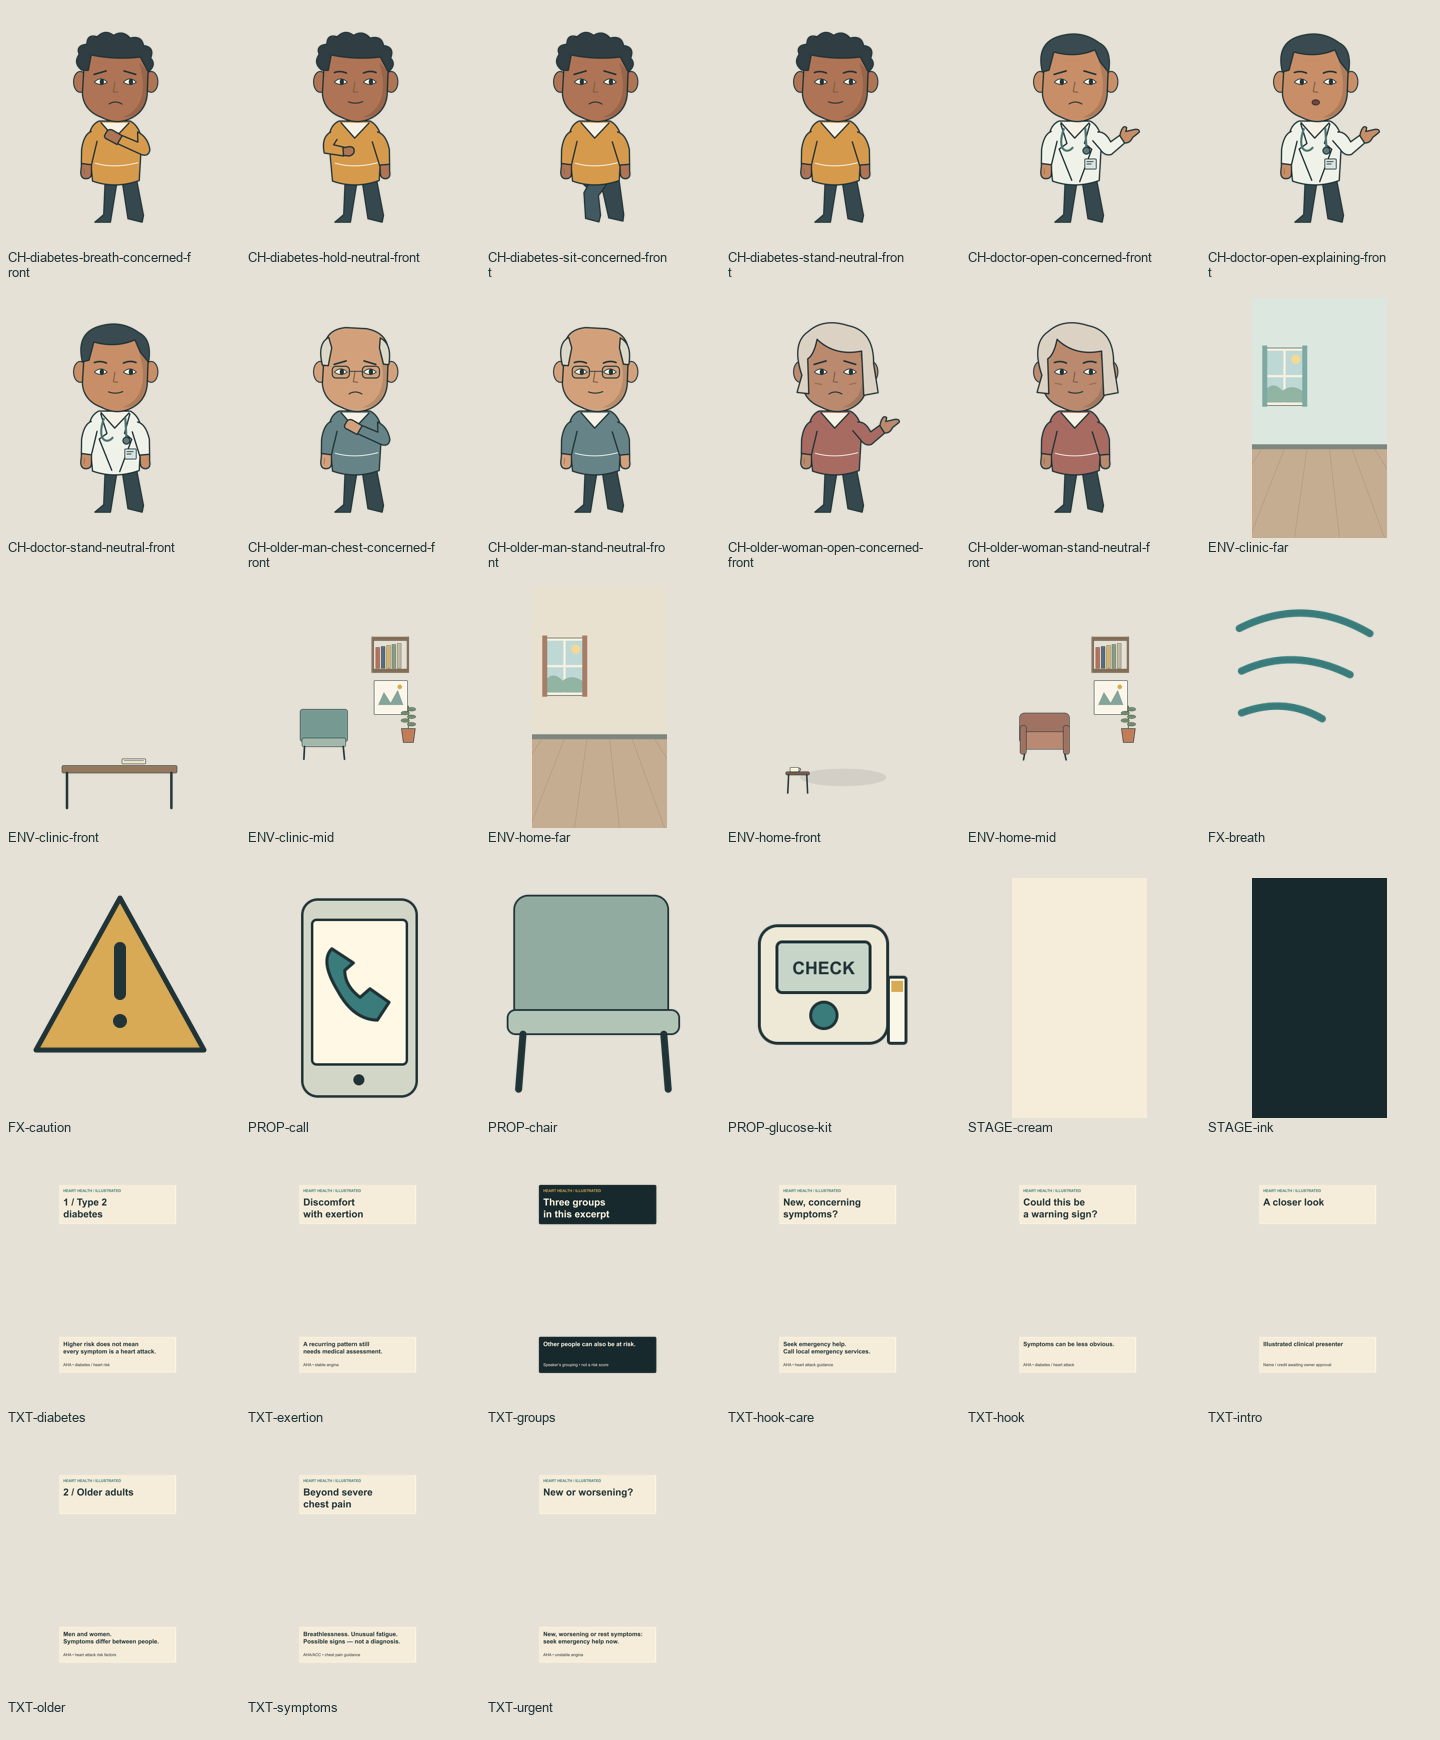
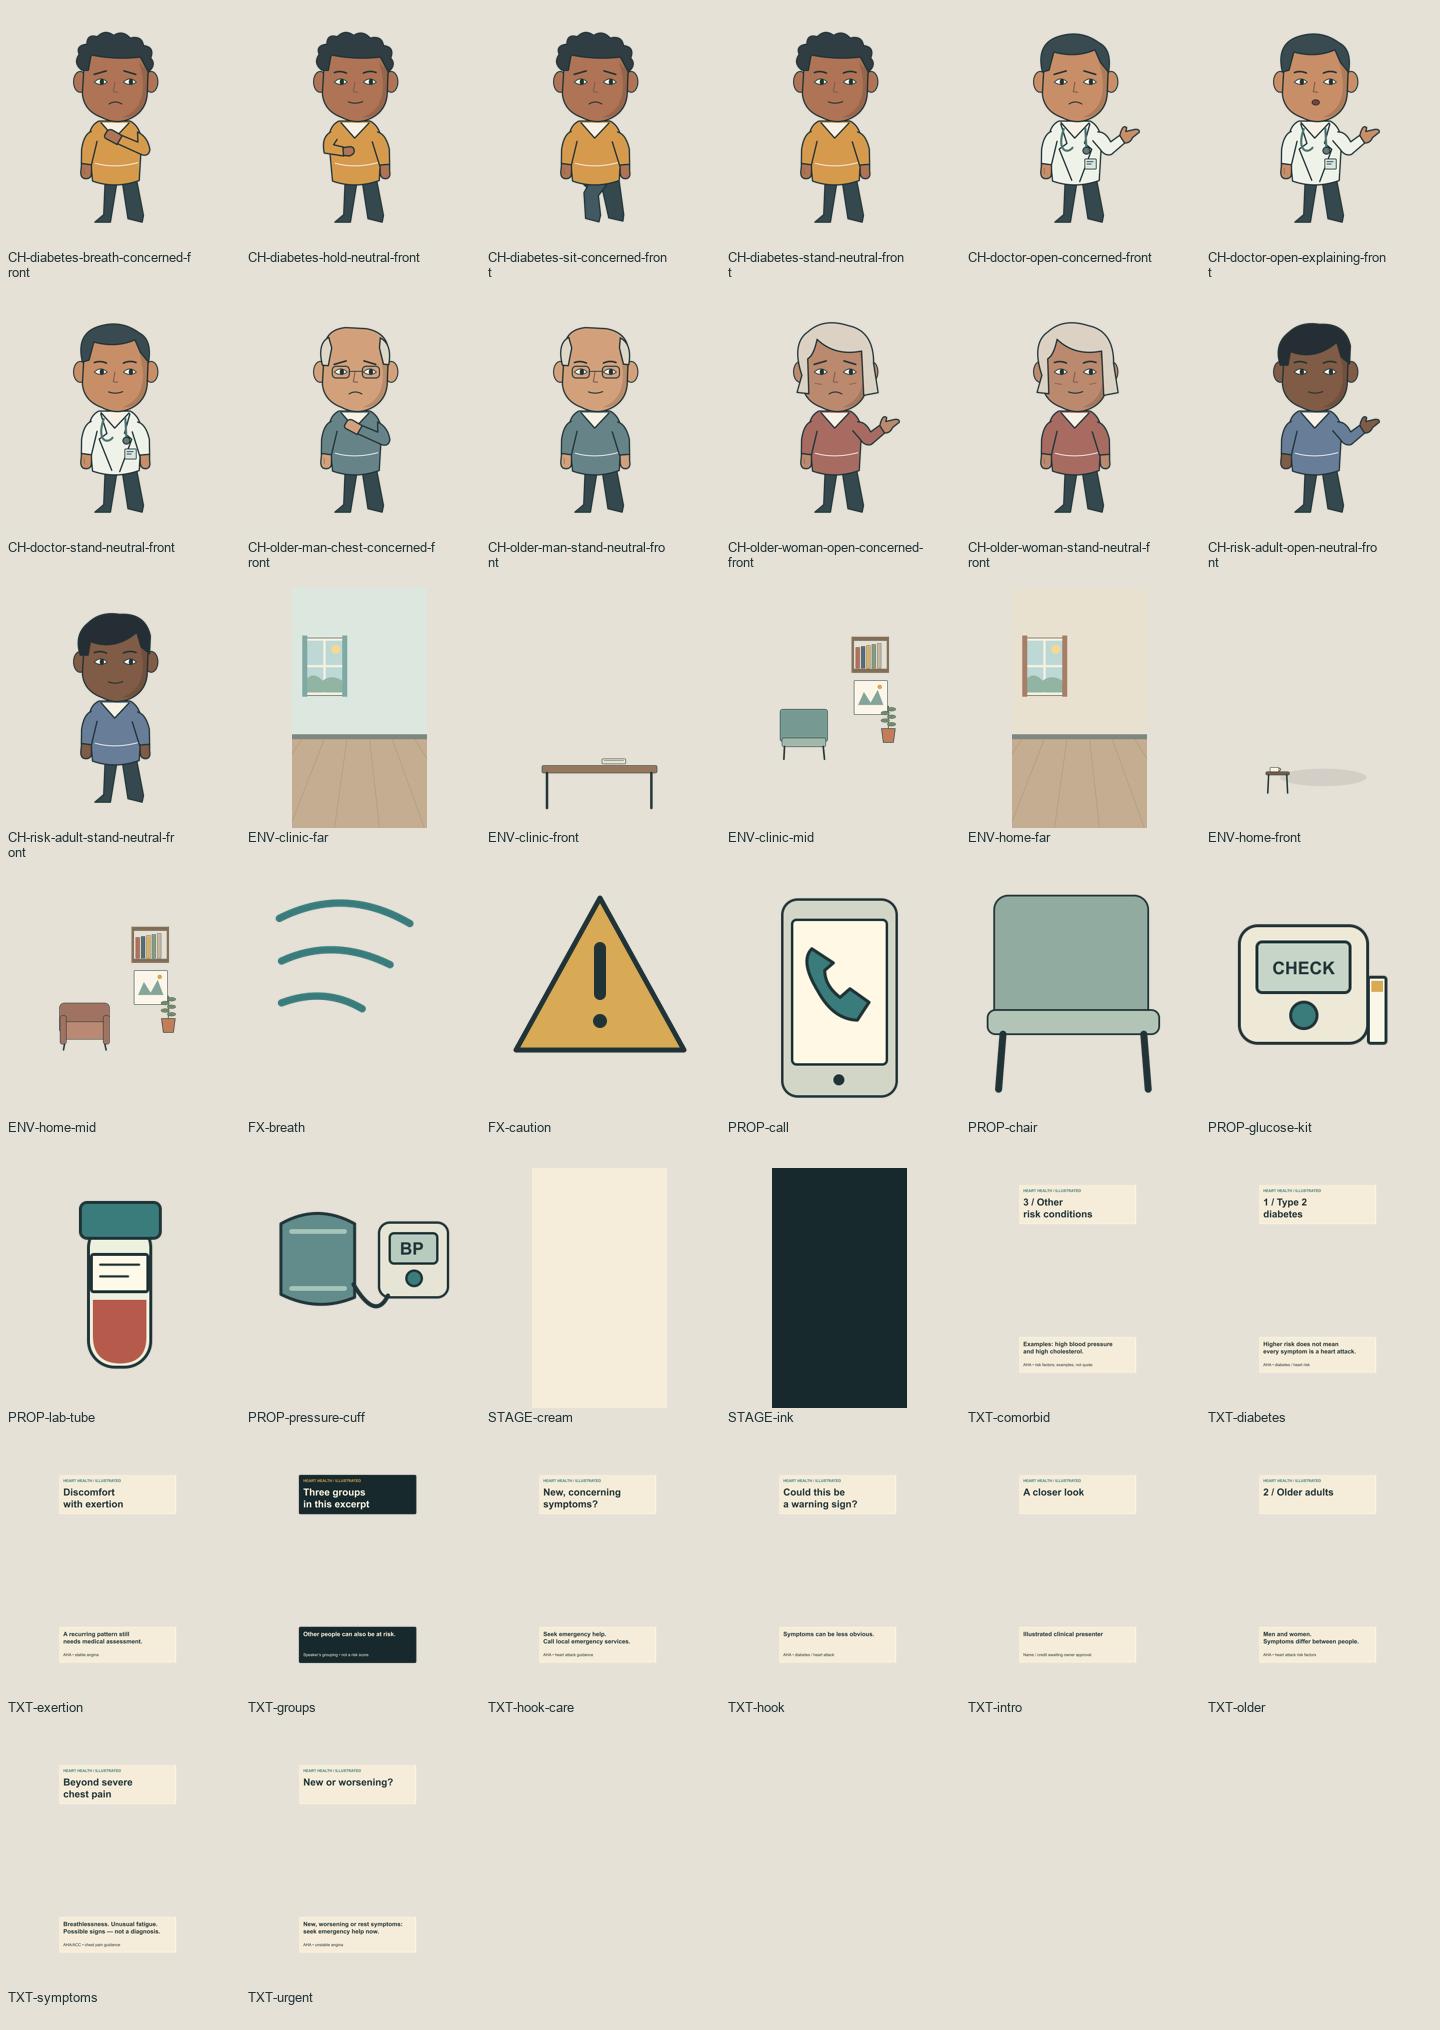
production: add comorbidity context with original clinical props

diff --git a/productions/dr-rehan-diabetes-heart-warning-01/tools/build_assets.py b/productions/dr-rehan-diabetes-heart-warning-01/tools/build_assets.py
@@ -151,8 +151,8 @@ state('S04-A','S04',[inst('STAGE-ink')],L04a,'they should always be evaluated in
 state('S04-B','S04',[inst('STAGE-cream'),inst(P2,150,500,.92),inst('PROP-glucose-kit',381,891,.60,'POP_IN')],L04,'number 1 type 2 diabetes,','Diabetes context; no fabricated glucose reading.','CE03','M01;M08',4)
 state('S05-A','S05',[inst('STAGE-cream'),inst(M0,100,540,.8,'SLIDE_IN')],L05,'number 2 elderly males and elderly females','Older man introduced; no universal symptom depiction.','CE03','M04;M08',3)
 state('S05-B','S05',[inst('STAGE-cream'),inst(M0,100,540,.8),inst(W0,510,540,.8,'SLIDE_IN')],L05,'number 2 elderly males and elderly females','Older woman joins on same plate.','CE03','M04;M08',4)
-state('S06-A','S06',env('clinic')+[inst(R0,100,550,.8),inst('PROP-pressure-cuff',570,850,.8,'POP_IN')],L06,'and number 3 with patients with comorbid conditions.','First supported example; not an assigned diagnosis.','CE03','M04;M08',4)
-state('S06-B','S06',env('clinic')+[inst(R1,100,550,.8,'POSE_SWITCH'),inst('PROP-pressure-cuff',550,700,.65),inst('PROP-lab-tube',650,950,.6,'POP_IN')],L06,'and number 3 with patients with comorbid conditions.','Add cholesterol lab-context symbol without a result.','CE03','M04;M08',4)
+state('S06-A','S06',[inst('STAGE-cream')]+[inst(R0,100,550,.8),inst('PROP-pressure-cuff',570,850,.8,'POP_IN')],L06,'and number 3 with patients with comorbid conditions.','First supported example; not an assigned diagnosis.','CE03','M04;M08',4)
+state('S06-B','S06',[inst('STAGE-cream')]+[inst(R1,100,550,.8,'POSE_SWITCH'),inst('PROP-pressure-cuff',550,700,.65),inst('PROP-lab-tube',650,950,.6,'POP_IN')],L06,'and number 3 with patients with comorbid conditions.','Add cholesterol lab-context symbol without a result.','CE03','M04;M08',4)
 state('S07-A','S07',[inst('STAGE-white'),inst('MED-heart-anterior',275,535,1.02),inst('MED-coronary-overlay',275,535,1.02,'DIAGRAM_BUILD')],L07,'So these 3 groups of people should always be evaluated for acute chronic syndrome','Schematic mechanism; quoted terminology unresolved.','CE05','M06',5)
 state('S07-B','S07',[inst('STAGE-white'),inst('MED-artery-wall',100,700,1),inst('MED-plaque',100,700,1,'DIAGRAM_BUILD'),inst('MED-flow',100,700,1,'DIAGRAM_BUILD')],L07b,'So these 3 groups of people should always be evaluated for acute chronic syndrome','Cut to generic artery segment; no diagnosed blockage.','CE05','M06',5)
 state('S07-C','S07',env('clinic')+[inst(D2,45,560,.72,'POSE_SWITCH'),inst(P0,535,560,.72),inst('PROP-assessment',355,995,.55),inst('ENV-clinic-front')],L07c,'if they have sudden onset symptoms which I have just mentioned.','Assessment concept; not advice to book a routine visit for acute signs.','CE02','M07',4)

diff --git a/productions/dr-rehan-diabetes-heart-warning-01/ASSET_QA.md b/productions/dr-rehan-diabetes-heart-warning-01/ASSET_QA.md
@@ -9,3 +9,4 @@ Automated check: tools/validate.py checks existence, dimensions, alpha, source h
 - S03: A/B/C phone review. Added a seat after detecting an unsupported sitting pose; hip now meets chair seat and feet align near chair feet. Reused identity/palette. Exertional explanation is text-led (no walking test illustrated). M02/M03/M05 distinguish possible symptoms from diagnosis and stable-pattern assessment from new/worsening/rest urgency. CE03 staggered concept treatment. Readable at 360×640; source footer supplementary.
 - S04: A/B phone review passes. Charcoal chapter reset + cream character/prop reveal follow CE04/03. Glucose device's left edge meets left hand; record contact as scene-space left palm (389.2, 992.2), device left edge 405, y930..1026, overlap with finger reach. Neutral expression avoids equating diabetes with acute illness. No numerical reading. Group caveat prominent.
 - S05: A/B phone review passes. Distinct older man/woman silhouettes, glasses/hair/outfit identities fixed. Same head scale and floor baseline; neither shown as automatically symptomatic. CE03 sequential entrance leaves same background intact. Extra concerned poses authored for possible later use, not counted as new character designs.
+- S06: A/B phone review. Removed clinic furniture from this group card after detecting misleading bench/feet overlap; now consistently reuses cream group stage. Cuff/monitor tubing connected; tube and monitor are symbolic editorial overlays, not held objects or diagnostic results. No reading invented. CE03 sequential prop build and pose swap. M04 examples explicitly not quote. PASS, clinician confirmation of intended comorbidity examples pending.
